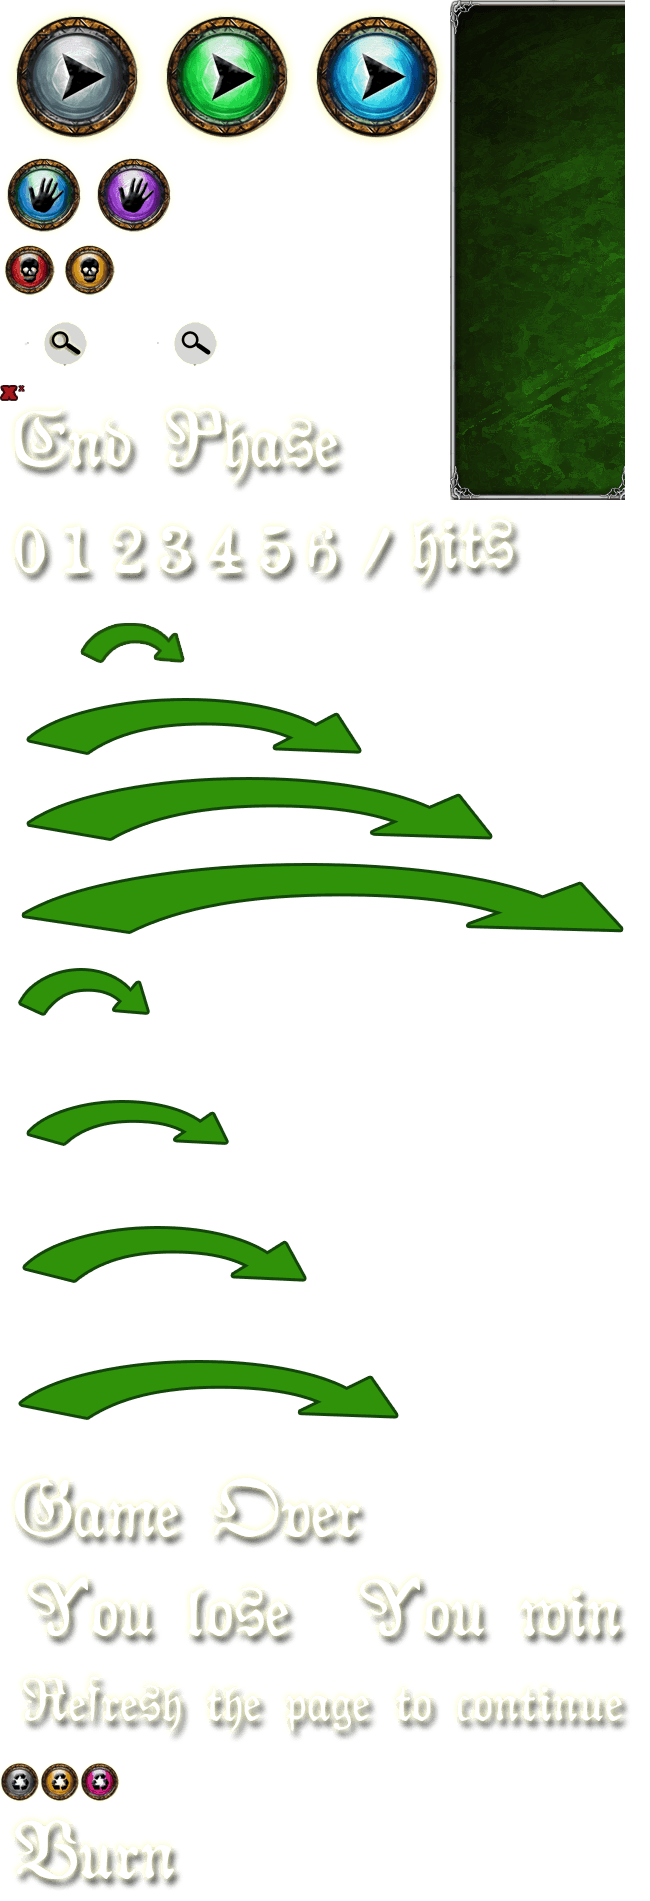
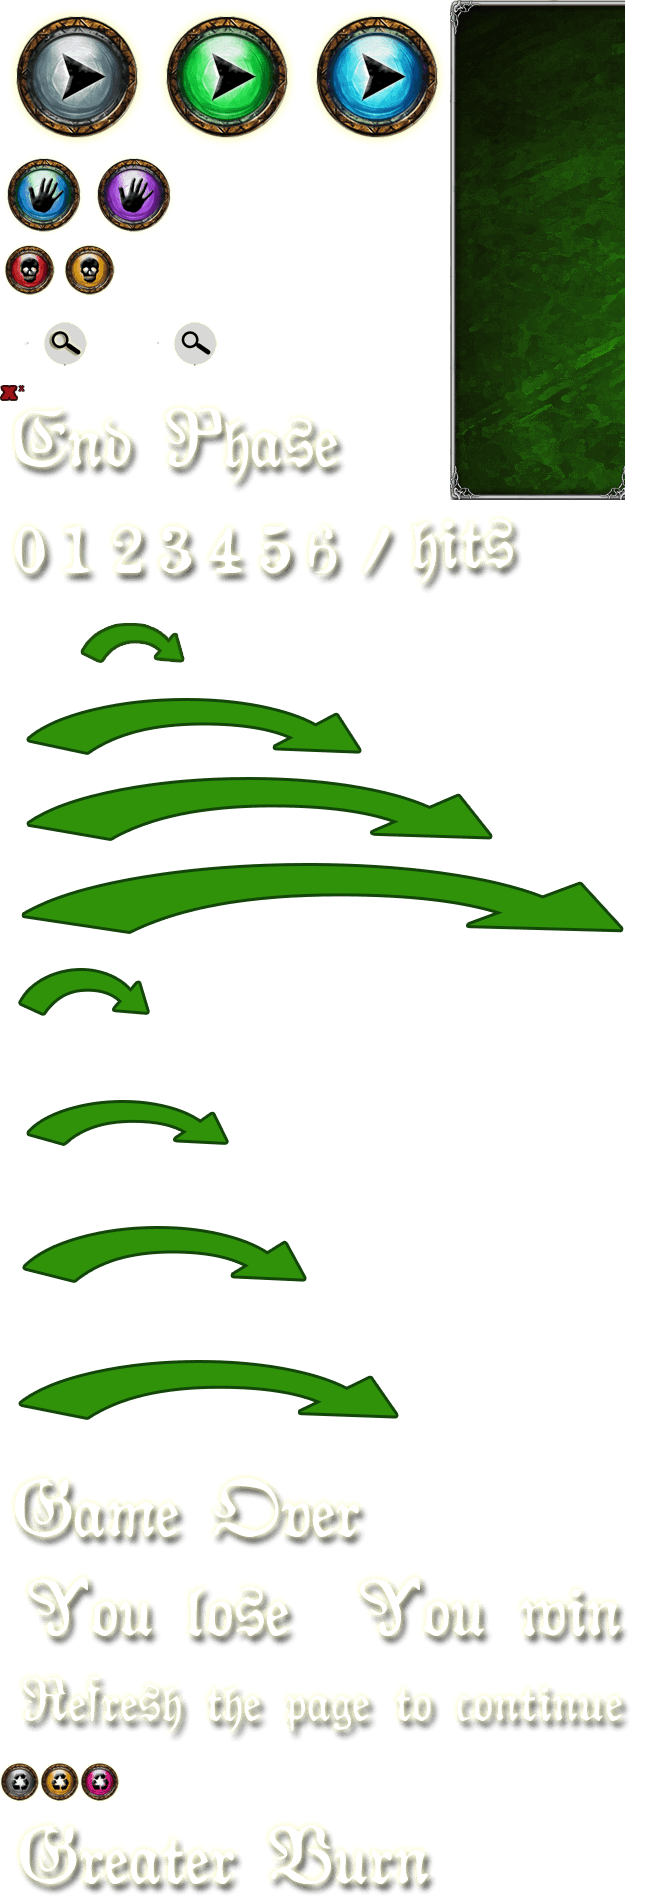
implement greater burn event

Changed region(s): [[0.0308, 0.9621, 0.3692, 1.0], [0.4, 0.9621, 0.6769, 1.0]]

diff --git a/scripts/game.js b/scripts/game.js
@@ -219,6 +219,38 @@ socket.on('PE_event_burn', function (data) {
     }
 })
 
+socket.on('PE_greater_burn_event', function (data) {
+
+    for (var i = 0; i < page_handler.board.matrix.length; i++) {
+        for (var j = 0; j < page_handler.board.matrix[i].length; j++) {
+
+            if (page_handler.board.matrix[i][j] != null && page_handler.board.matrix[i][j].id === data.card_id) {
+
+                page_handler.board.matrix[i][j].wounds += 2;
+
+                //add 'Burn' animation
+                page_handler.animations.push(new page_handler.Animation(5));
+
+                if (page_handler.board.matrix[i][j].wounds >= page_handler.board.matrix[i][j].lives) {
+                    page_handler.board.matrix[i][j].wounds = page_handler.board.matrix[i][j].lives; //only for displaying purpose
+                    page_handler.board.matrix[i][j].killed_by = data.player_name; //store card killer name
+                    page_handler.board.matrix[i][j].dying = true;
+                    page_handler.board.matrix[i][j].hover = false;
+                    page_handler.board.matrix[i][j].selected = false;
+                }
+                for (var i = 0; i < opponent.faction.deck.length; i++) {
+
+                    if (opponent.faction.deck[i].name === 'Greater Burn') {
+                        opponent.discard_pile.push(opponent.faction.deck[i]);
+                        opponent.faction.deck.splice(i, 1);
+                        return;
+                    }
+                }
+            }
+        }
+    }
+})
+
 /***************************CLASSES****************************/
 //-----------------------------------------------------------//
 
@@ -1867,18 +1899,23 @@ var PlaygroundHandler = function () {
                 }
             }
         }
-
         if (that.type === 3) {
 
             //overwrite sheet settings
             that.sheet_origin = 1461; // y start coordinates
         }
-
         if (that.type === 4) {
 
             //overwrite sheet settings
             that.sheet_origin = 1801; // y start coordinates
         }
+        if (that.type === 5) {
+
+            //overwrite sheet settings
+            that.sheet_origin = 1801; // y start coordinates
+        }
+
+
 
         that.handle = function () {
 
@@ -1969,7 +2006,10 @@ var PlaygroundHandler = function () {
                 ctx.drawImage(parent.image, 0, that.sheet_origin + 200, 650, 100, 187, 450, 650, 100);
             }
             else if (that.type === 4) {
-                ctx.drawImage(parent.image, 0, that.sheet_origin, 200, 100, 412, 334, 200, 100);
+                ctx.drawImage(parent.image, 250, that.sheet_origin, 200, 100, 412, 334, 200, 100);
+            }
+            else if (that.type === 5) {
+                ctx.drawImage(parent.image, 0, that.sheet_origin, 450, 100, 387, 334, 450, 100);
             }
 
             ctx.restore();
@@ -2043,6 +2083,41 @@ var PlaygroundHandler = function () {
 
             } else if (card_ref.name === 'Greater Burn') {
 
+                for (var i = 0; i < parent.board.matrix.length; i++) {
+                    for (var j = 0; j < parent.board.matrix[i].length; j++) {
+
+                        if (parent.board.matrix[i][j] != null) {
+
+                            if ((mouse_x > parent.board.s_x + (j * parent.board.square_w)) &&
+                                (mouse_x < parent.board.s_x + (j * parent.board.square_w) + parent.board.square_w) &&
+                                (mouse_y > parent.board.s_y + (i * parent.board.square_h)) &&
+                                (mouse_y < parent.board.s_y + (i * parent.board.square_h) + parent.board.square_h) &&
+                                (parent.board.matrix[i][j].card_class === 'common' || parent.board.matrix[i][j].card_class === 'champion')) {
+
+                                parent.board.matrix[i][j].wounds += 2;
+
+                                //add 'Burn' animation
+                                parent.animations.push(new parent.Animation(5));
+
+                                if (parent.board.matrix[i][j].wounds >= parent.board.matrix[i][j].lives) {
+                                    parent.board.matrix[i][j].wounds = parent.board.matrix[i][j].lives; //only for displaying purpose
+                                    parent.board.matrix[i][j].killed_by = player.name; //store card killer name
+                                    parent.board.matrix[i][j].dying = true;
+                                    parent.board.matrix[i][j].hover = false;
+                                    parent.board.matrix[i][j].selected = false;
+
+                                }
+
+                                mouse_state = 2;
+                                socket.emit('PE_greater_burn_event', { room_name: room_name, card_id: parent.board.matrix[i][j].id, player_name: player.name });
+                                player.discard_pile.push(card_ref);
+                                parent.hand.removeCard(card_ref);
+
+                            }
+                        }
+                    }
+                }
+
             } else if (card_ref.name === 'Magic Drain') {
 
             } else if (card_ref.name === 'Spirit of the Phoenix') {
@@ -2087,6 +2162,26 @@ var PlaygroundHandler = function () {
 
                     }
                 }
+
+            } else if (card_name === 'Greater Burn') {
+
+                //draw available attacks
+                for (var i = 0; i < parent.board.matrix.length; i++) {
+                    for (var j = 0; j < parent.board.matrix[i].length; j++) {
+
+                        if ((parent.board.matrix[i][j] != null) && (parent.board.matrix[i][j].card_class === "common" || parent.board.matrix[i][j].card_class === "champion")) {
+
+                            if (parent.board.matrix[i][j].owner === player_login)
+                                ctx.fillStyle = "rgba(4, 124, 10, 0.4)";
+                            else
+                                ctx.fillStyle = "rgba(216, 25, 0, 0.4)";
+
+                            ctx.fillRect(parent.board.s_x + (j * parent.board.square_w), parent.board.s_y + (i * parent.board.square_h), parent.board.square_w, parent.board.square_h);
+                        }
+
+                    }
+                }
+
             }
 
         }

diff --git a/server.js b/server.js
@@ -335,4 +335,11 @@ io.sockets.on('connection', function (socket) {
         socket.broadcast.to(data.room_name).emit('PE_event_burn', { card_id: data.card_id, player_name: data.player_name });
     });
 
+    socket.on('PE_greater_burn_event', function (data) {
+
+        //sending to all clients in 'game' room(channel) except sender
+        socket.broadcast.to(data.room_name).emit('PE_greater_burn_event', { card_id: data.card_id, player_name: data.player_name });
+    });
+
+
 });
